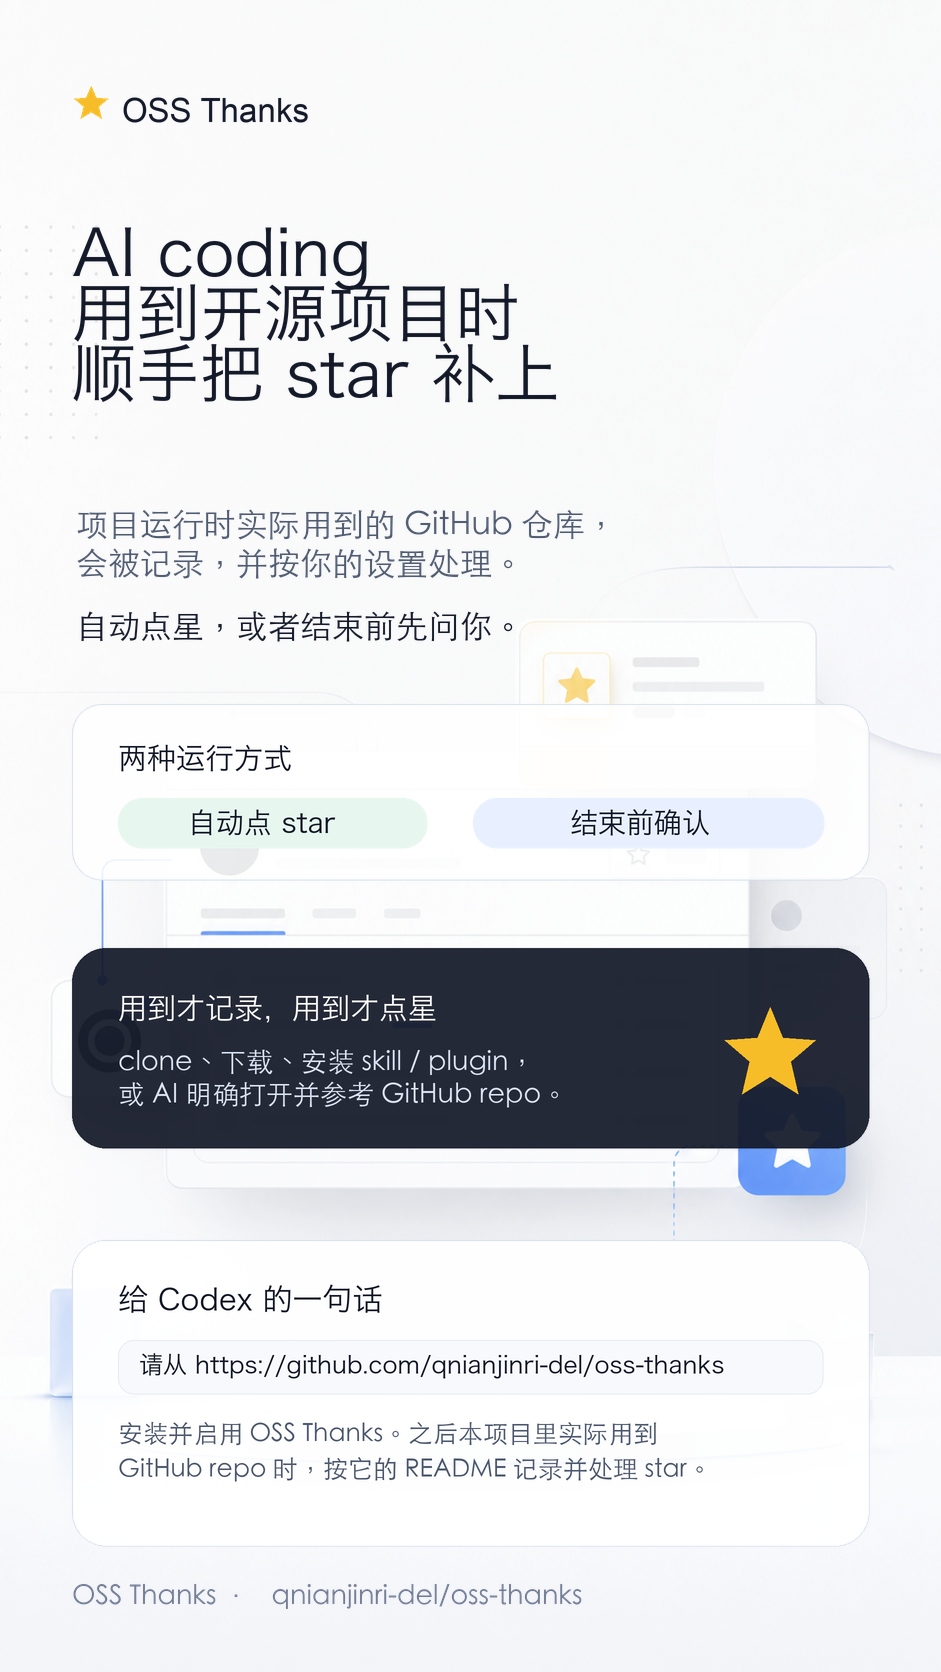
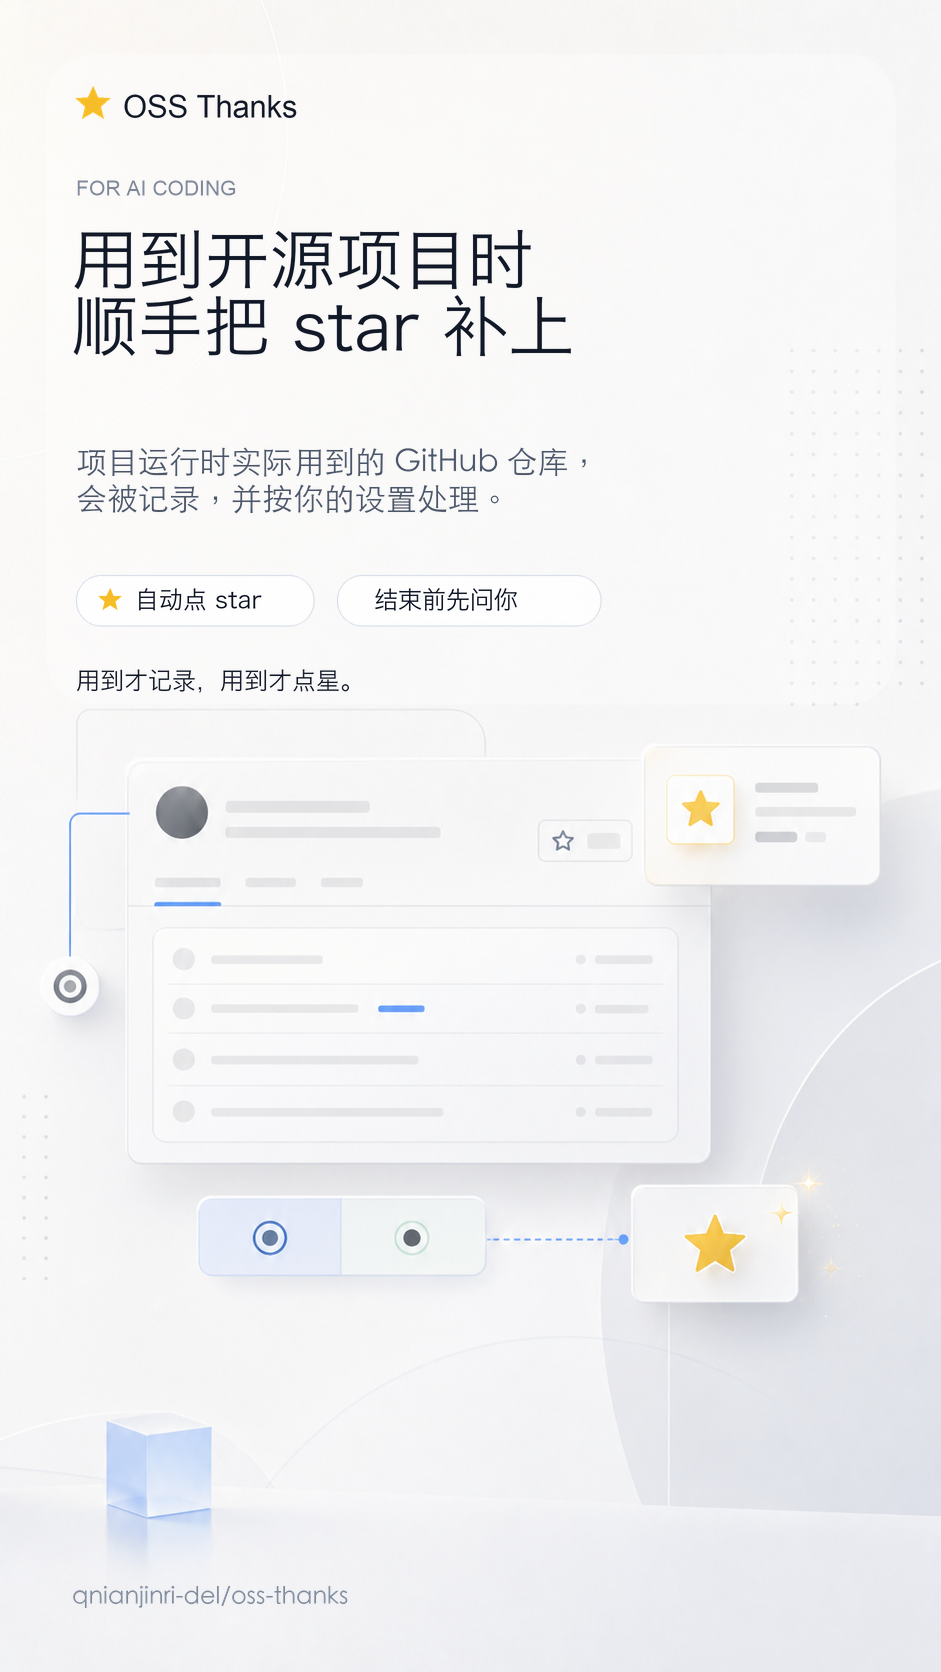
Refresh Douyin promo visuals

diff --git a/README.md b/README.md
@@ -138,9 +138,11 @@ python3 scripts/oss_thanks.py ignore owner/repo
 
 ## 抖音介绍图
 
-项目里有一张竖版介绍图，可以用于发图文或短视频封面：
+项目里有两张竖版介绍图，可以用于发图文或短视频封面：
 
 ![OSS Thanks Douyin poster](assets/douyin-oss-thanks.png)
+
+![OSS Thanks Codex usage example](assets/douyin-oss-thanks-codex.png)
 
 ## 项目结构
 